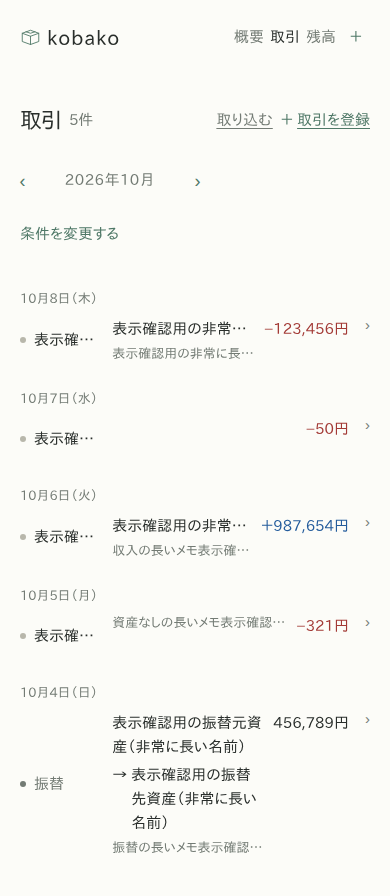
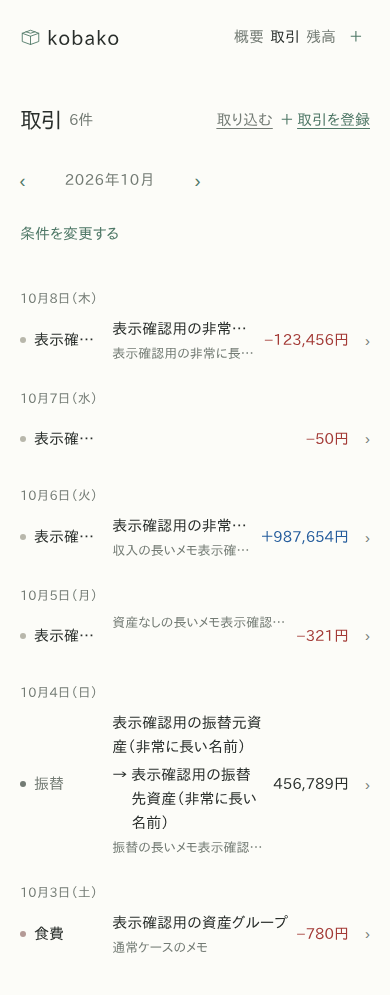
fix(web): center transaction row amounts
Align amounts and row affordances with the transaction row center and refresh visual fixtures with a normal category and asset group case.

diff --git a/apps/web/app/globals.css b/apps/web/app/globals.css
@@ -963,6 +963,11 @@ h3 {
   margin-top: 0;
 }
 
+.transaction-link > .record-amount,
+.transaction-link > .row-affordance {
+  align-self: center;
+}
+
 .transaction-main {
   display: grid;
   min-width: 0;
